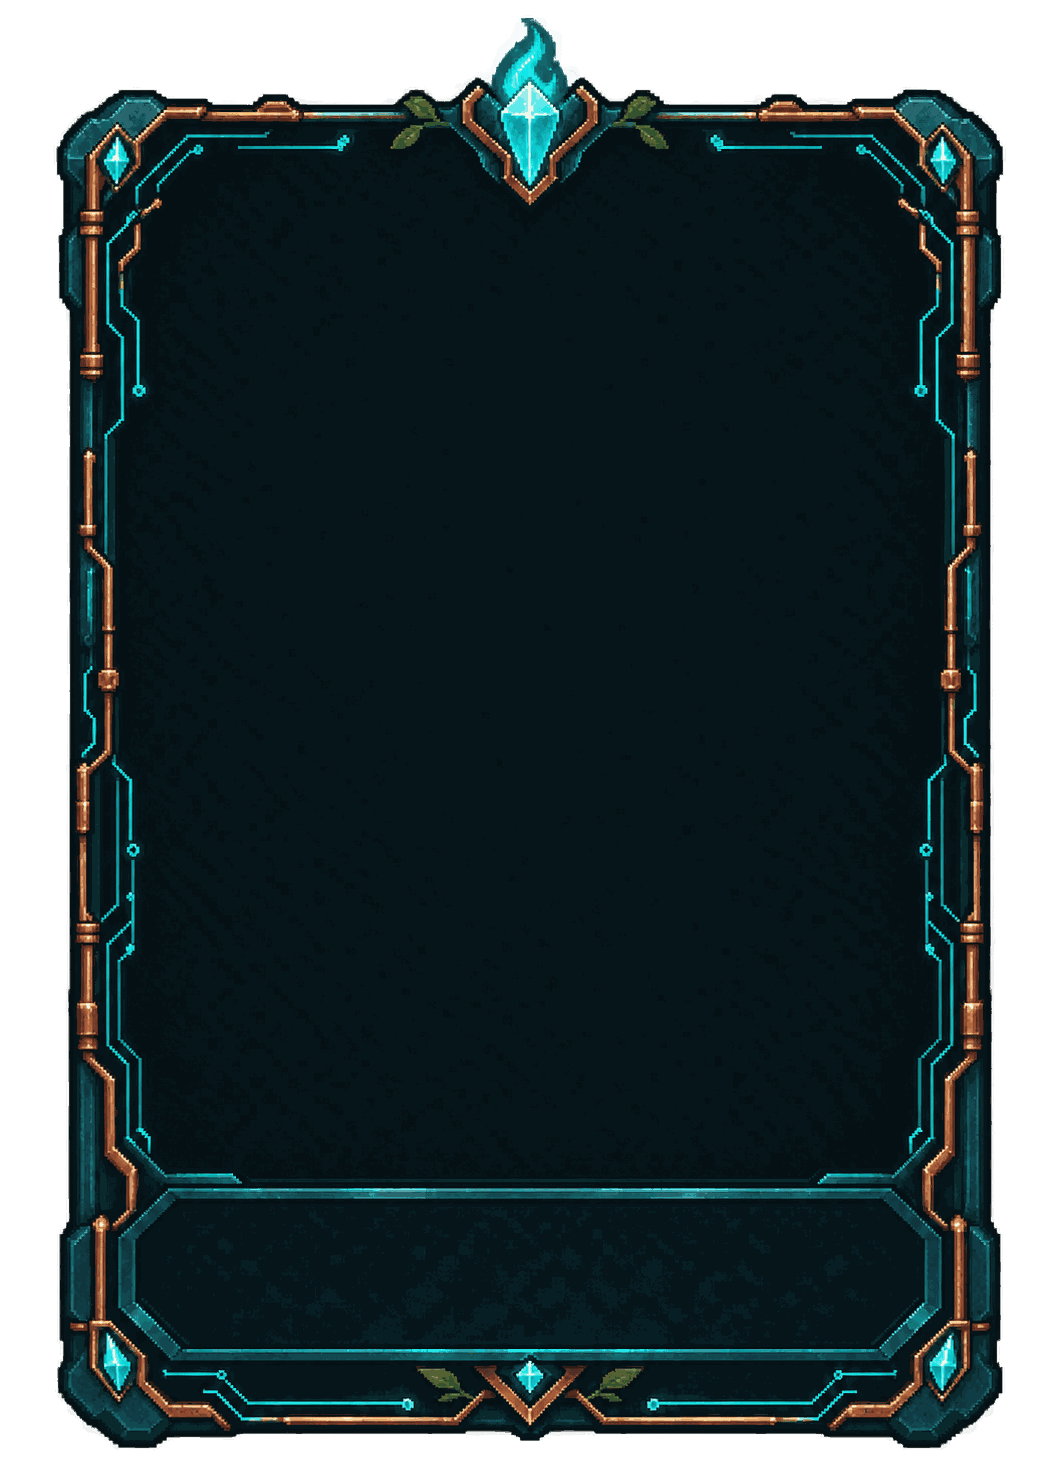
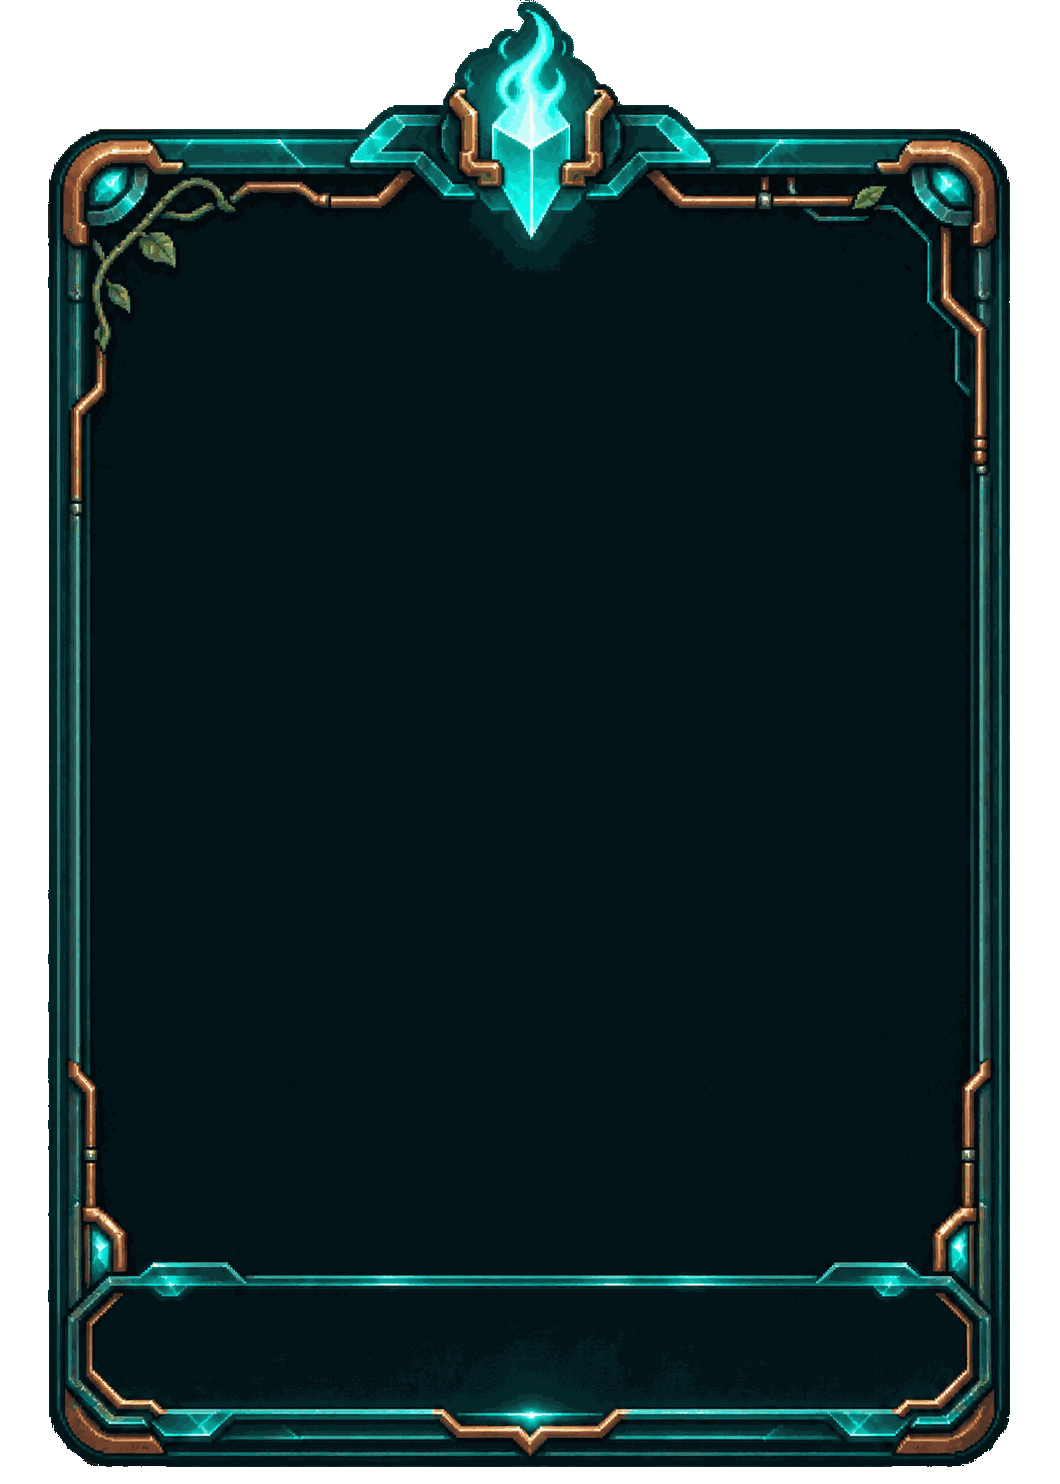
feat(elemento-novo): arte final da carta e a V3 escolhida pelo dono
Miolo forcado a alfa 255 (tudo que nao liga ao exterior transparente), RGB intacto; miolo do CSS remedido na V3.

Changed region(s): [[0.0311, 0.0, 0.9651, 0.9919]]

diff --git a/src/index.css b/src/index.css
@@ -5013,7 +5013,8 @@ select:focus-visible {
   box-sizing: border-box; position: relative; width: var(--carta-w); aspect-ratio: 5 / 7; container-type: inline-size;
   background: url('./assets/soulmon/ui/carta-elemento.webp') center / 100% 100% no-repeat; image-rendering: pixelated;
 }
-.sm2-elem-carta-miolo { position: absolute; inset: 15% 15% 24%; display: flex; flex-direction: column; align-items: center; justify-content: center; gap: 4cqw; text-align: center; }
+/* V3 (arte final do dono): área escura livre medida em x 11-91%, y 17-84% (o cristal desce até ~16% e a placa começa em ~86%). */
+.sm2-elem-carta-miolo { position: absolute; inset: 19% 14% 18%; display: flex; flex-direction: column; align-items: center; justify-content: center; gap: 4cqw; text-align: center; }
 .sm2-elem-carta-icone { display: grid; place-items: center; width: 42cqw; height: 42cqw; }
 .sm2-elem-carta-icone img { width: 100% !important; height: 100% !important; }
 .sm2-elem-carta-nome { margin: 0; font-family: var(--sm2-font-display, var(--sm2-font-text)); font-size: clamp(18px, 8cqw, 28px); font-weight: 600; color: #fff; text-transform: uppercase; letter-spacing: .04em; }

diff --git a/docs/REGISTRO-DE-DECISOES.md b/docs/REGISTRO-DE-DECISOES.md
@@ -5690,4 +5690,4 @@ Cruzamento em `E:/Soulmon-assets/_lote-13-11/CRUZAMENTO.md`. **Instalado:** (1) 
 
 **Alternativa que perdeu.** Gate por flag só de luta (como no §396): não cobria Feira e evolução dentro de uma atividade. Perdeu também dar um campo no save para "carta já vista" (o aviso segue efêmero).
 
-**Riscos aceitos.** Sem build: nada visto em tela (carta em 360x640 e 412x915, fileira de 4 componentes e o encaixe do texto na arte só em jsdom e na prancha `E:\Soulmon-assets\_lote-15-11\carta-elemento\mock-carta.png`). A arte usada é a v2 do lote; o instalador troca sozinho para `carta-elemento.png` quando existir. A lista de áreas de atividade é opinião de implementação (arena, exploracao, jogos). **Gatilho de revisão:** o dono ver a carta e querer outro layout. **Rollback:** reverter o PR (sem campo de save, sem id novo).
+**Riscos aceitos.** Sem build: nada visto em tela (carta em 360x640 e 412x915, fileira de 4 componentes e o encaixe do texto na arte só em jsdom e na prancha `E:\Soulmon-assets\_lote-15-11\carta-elemento\mock-carta.png`). A arte FINAL é a V3 escolhida pelo dono (`carta-elemento-v3.png`; miolo opaco: tudo que não está ligado ao exterior transparente foi forçado a alfa 255, RGB intacto), canônico em `carta-elemento.png`; o miolo do CSS foi medido na V3 (x 11-91%, y 17-84%). A lista de áreas de atividade é opinião de implementação (arena, exploracao, jogos). **Gatilho de revisão:** o dono ver a carta e querer outro layout. **Rollback:** reverter o PR (sem campo de save, sem id novo).

diff --git a/docs/STATUS.md b/docs/STATUS.md
@@ -3,7 +3,7 @@
 > ## 15/11/2026 — "Elemento novo" vira CARTA grande (`feat/carta-elemento-novo`, REGISTRO §399) — PR aberto, NÃO mergeado
 >
 > - **Feito:** carta preta (arte `ui/carta-elemento.webp`) com ícone, nome e, nos compostos, os componentes; só abre no fim da atividade (gate `emAtividade`); carrossel com setas e deslize, OK desativado até ver todas, X no topo. Frase de poção/Laboratório REMOVIDA; na evolução a carta é o último item da sequência.
-> - **Não visto em tela:** sem build; layout 360x640/412x915 só em jsdom e na prancha `E:\Soulmon-assets\_lote-15-11\carta-elemento\mock-carta.png`. Arte usada = v2 do lote (trocar por `carta-elemento.png` rodando `tools/instalar-carta-elemento.py`).
+> - **Não visto em tela:** sem build; layout 360x640/412x915 só em jsdom e na prancha `E:\Soulmon-assets\_lote-15-11\carta-elemento\mock-carta.png`. Arte final = V3 escolhida pelo dono, instalada por `tools/instalar-carta-elemento.py`.
 
 > ## 15/11/2026 — 33 decorações no estilo novo instaladas no mesmo id (`feat/decor-estilo-novo`, REGISTRO §398) — PR aberto, NÃO mergeado
 >
